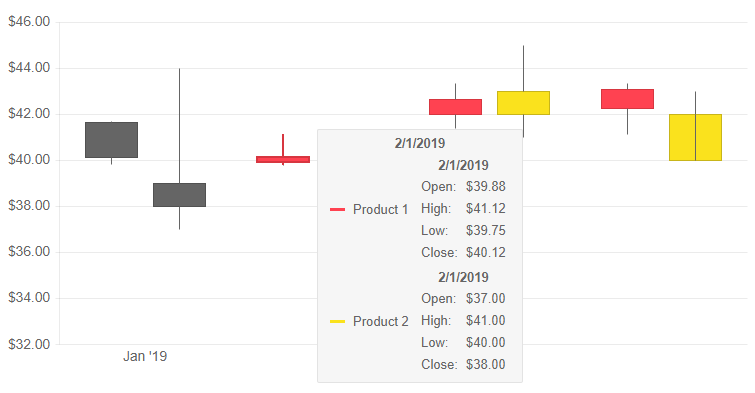
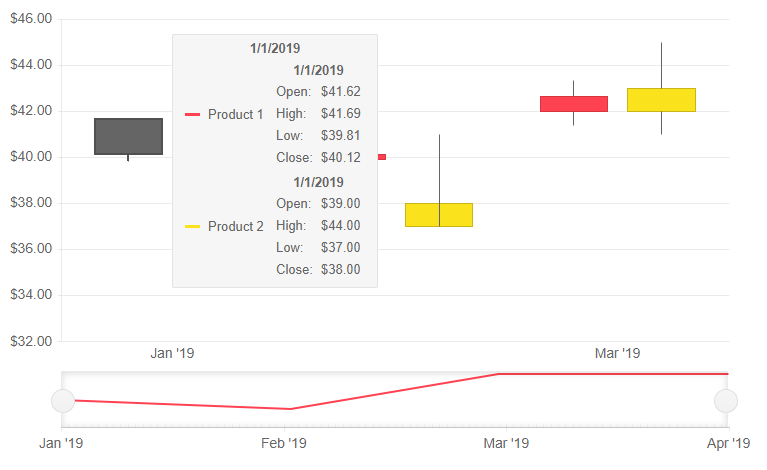
chore(stockchart): added navigator to shared tooltip article

diff --git a/components/stockchart/tooltip/shared.md b/components/stockchart/tooltip/shared.md
@@ -64,6 +64,17 @@ To enable the shared tooltip:
         </StockChartSeries>
     </StockChartSeriesItems>
 
+    <StockChartNavigator>
+        <StockChartNavigatorSeriesItems>
+            <StockChartNavigatorSeries Type="StockChartSeriesType.Line"
+                                       Name="Product 1"
+                                       Data="@StockChartProduct1Data"
+                                       Field="@(nameof(StockDataPoint.High))"
+                                       CategoryField="@(nameof(StockDataPoint.Date))">
+            </StockChartNavigatorSeries>
+        </StockChartNavigatorSeriesItems>
+    </StockChartNavigator>
+
 </TelerikStockChart>
 
 
@@ -79,7 +90,7 @@ To enable the shared tooltip:
     public async Task GenerateChartData()
     {
         StockChartProduct1Data = new List<StockDataPoint>()
-        {
+{
             new StockDataPoint(new DateTime(2019, 1, 1), 41.62m, 40.12m, 41.69m, 39.81m, 2632000),
             new StockDataPoint(new DateTime(2019, 2, 1), 39.88m, 40.12m, 41.12m, 39.75m, 3584700),
             new StockDataPoint(new DateTime(2019, 3, 1), 42m, 42.62m, 43.31m, 41.38m, 7631700),
@@ -87,7 +98,7 @@ To enable the shared tooltip:
         };
 
         StockChartProduct2Data = new List<StockDataPoint>()
-        {
+{
             new StockDataPoint(new DateTime(2019, 1, 1), 39m, 38m, 44m, 37m, 26320),
             new StockDataPoint(new DateTime(2019, 2, 1), 37m, 38m, 41m, 40m, 35847),
             new StockDataPoint(new DateTime(2019, 3, 1), 42m, 43m, 45m, 41m, 76317),
@@ -214,8 +225,18 @@ Each `Point` contains the following data:
         </StockChartSeries>
     </StockChartSeriesItems>
 
-</TelerikStockChart>
+    <StockChartNavigator>
+        <StockChartNavigatorSeriesItems>
+            <StockChartNavigatorSeries Type="StockChartSeriesType.Line"
+                                       Name="Product 1"
+                                       Data="@StockChartProduct1Data"
+                                       Field="@(nameof(StockDataPoint.High))"
+                                       CategoryField="@(nameof(StockDataPoint.Date))">
+            </StockChartNavigatorSeries>
+        </StockChartNavigatorSeriesItems>
+    </StockChartNavigator>
 
+</TelerikStockChart>
 
 @code {
     public List<StockDataPoint> StockChartProduct1Data { get; set; }
